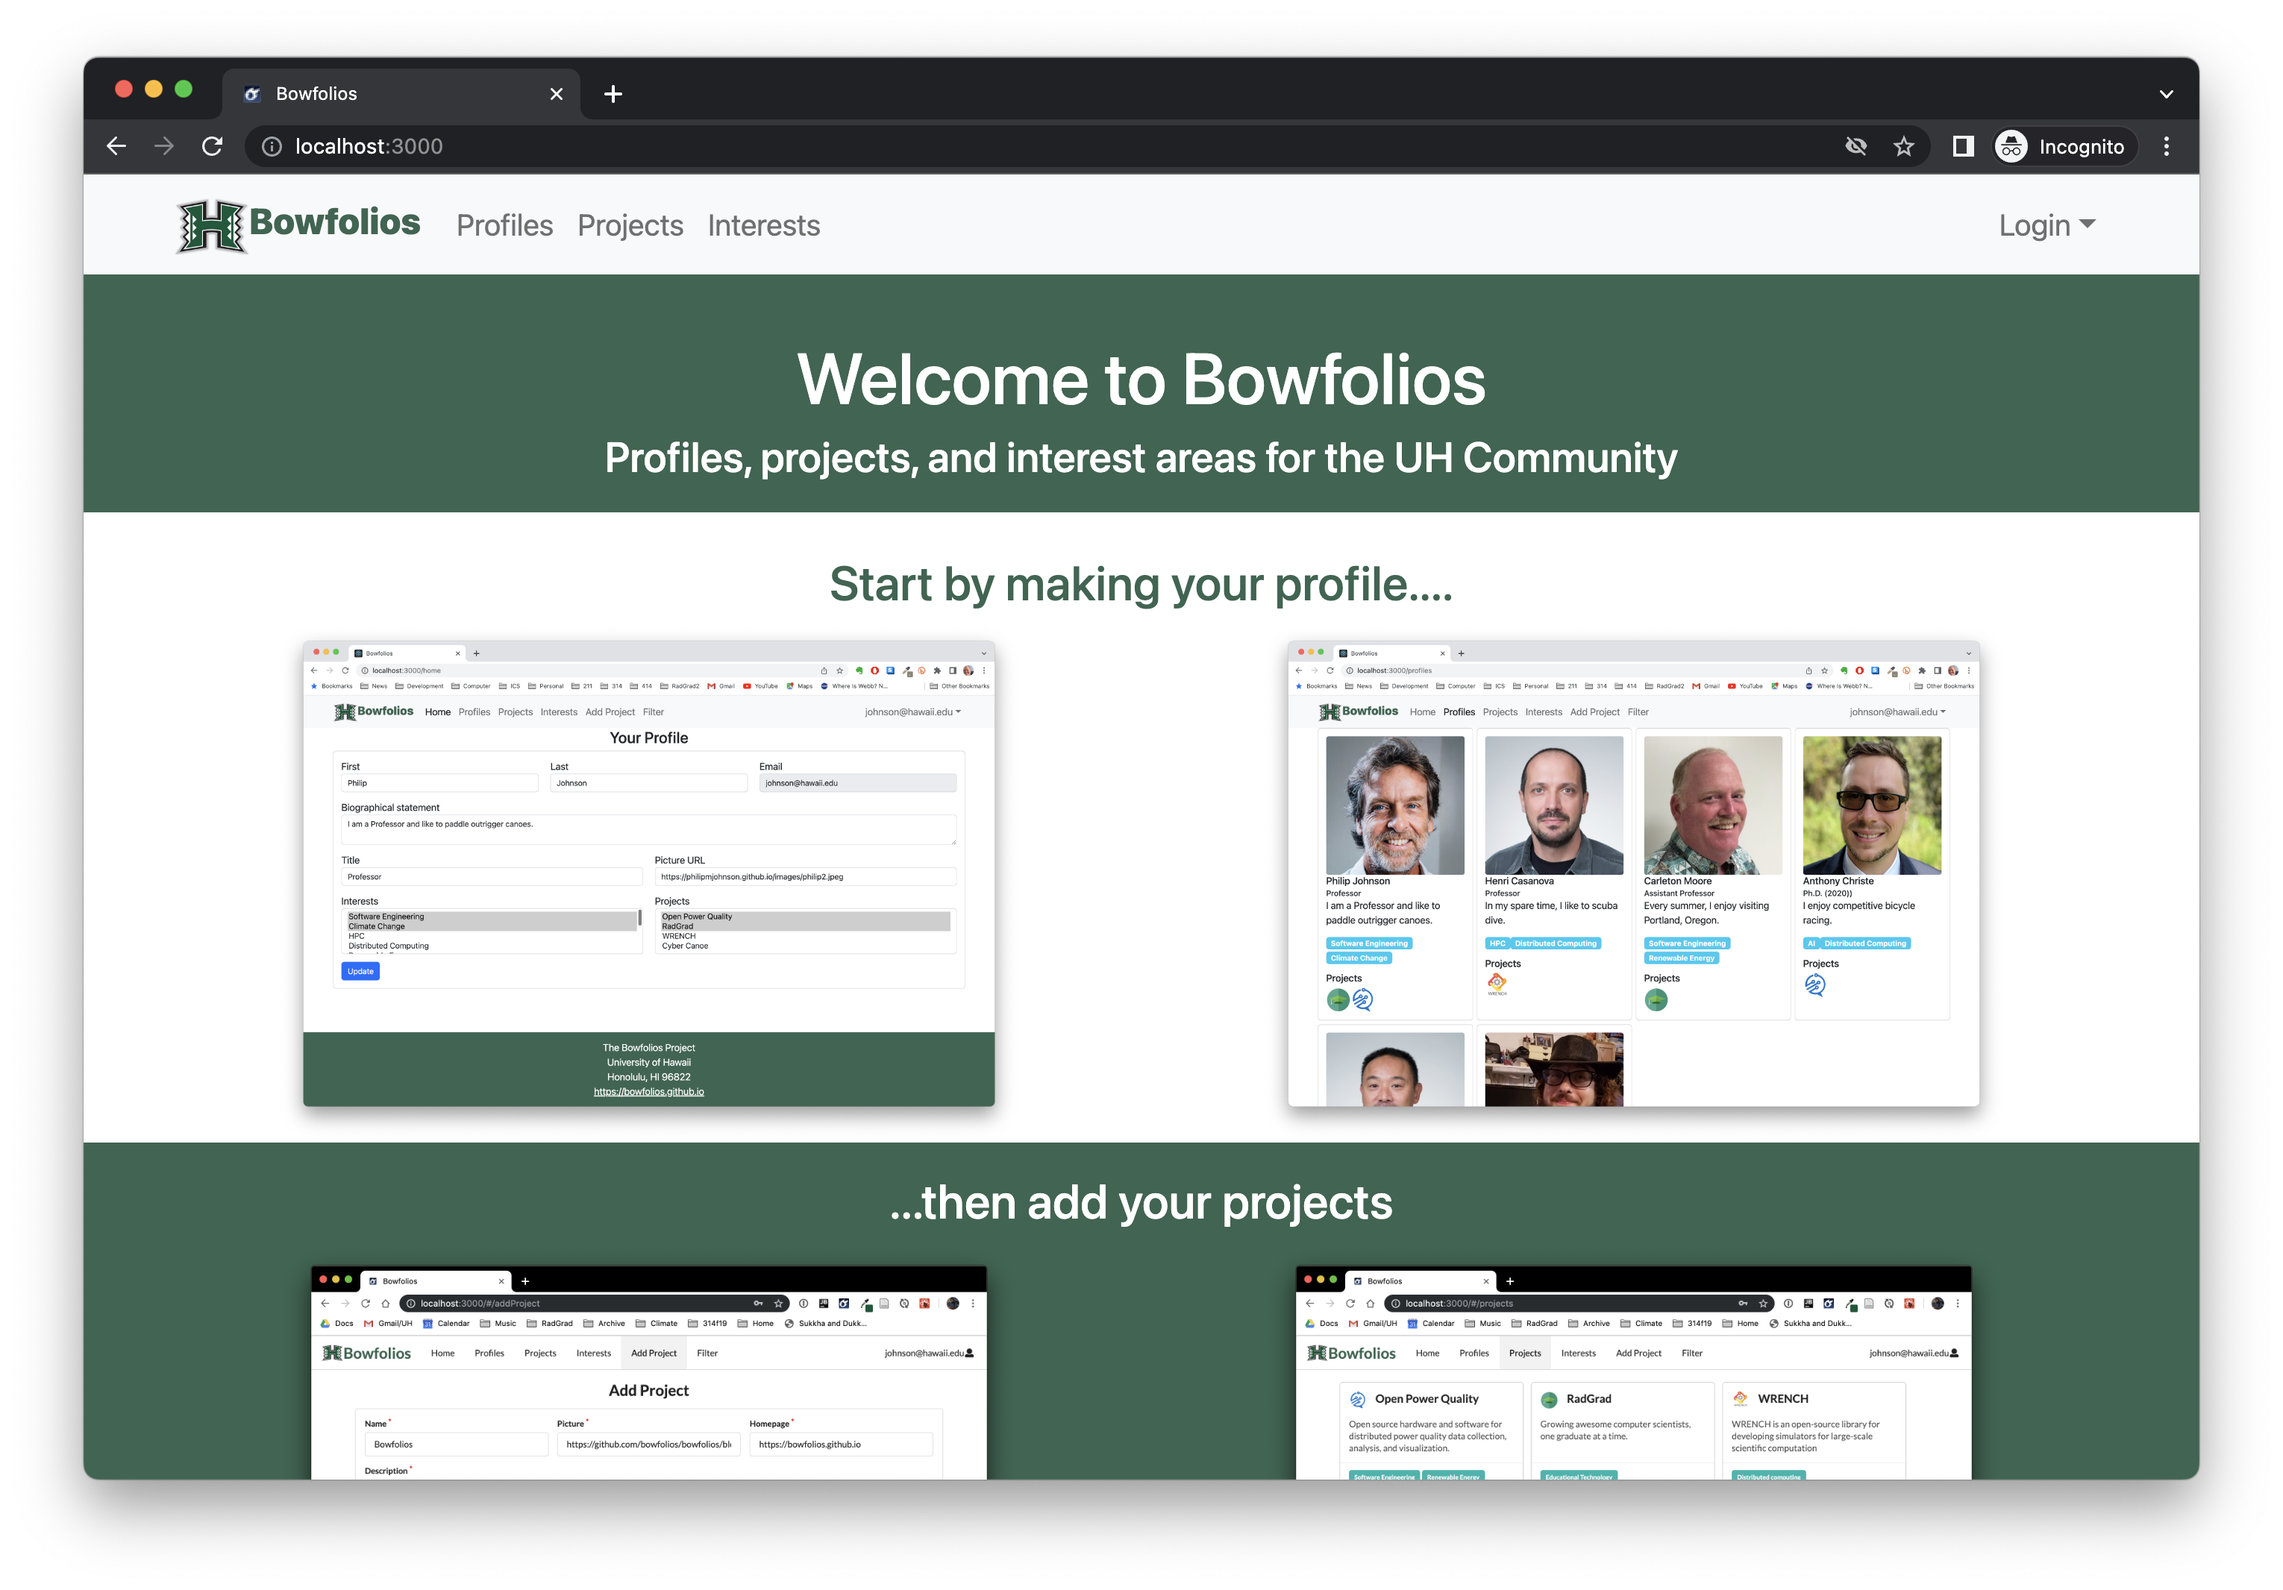
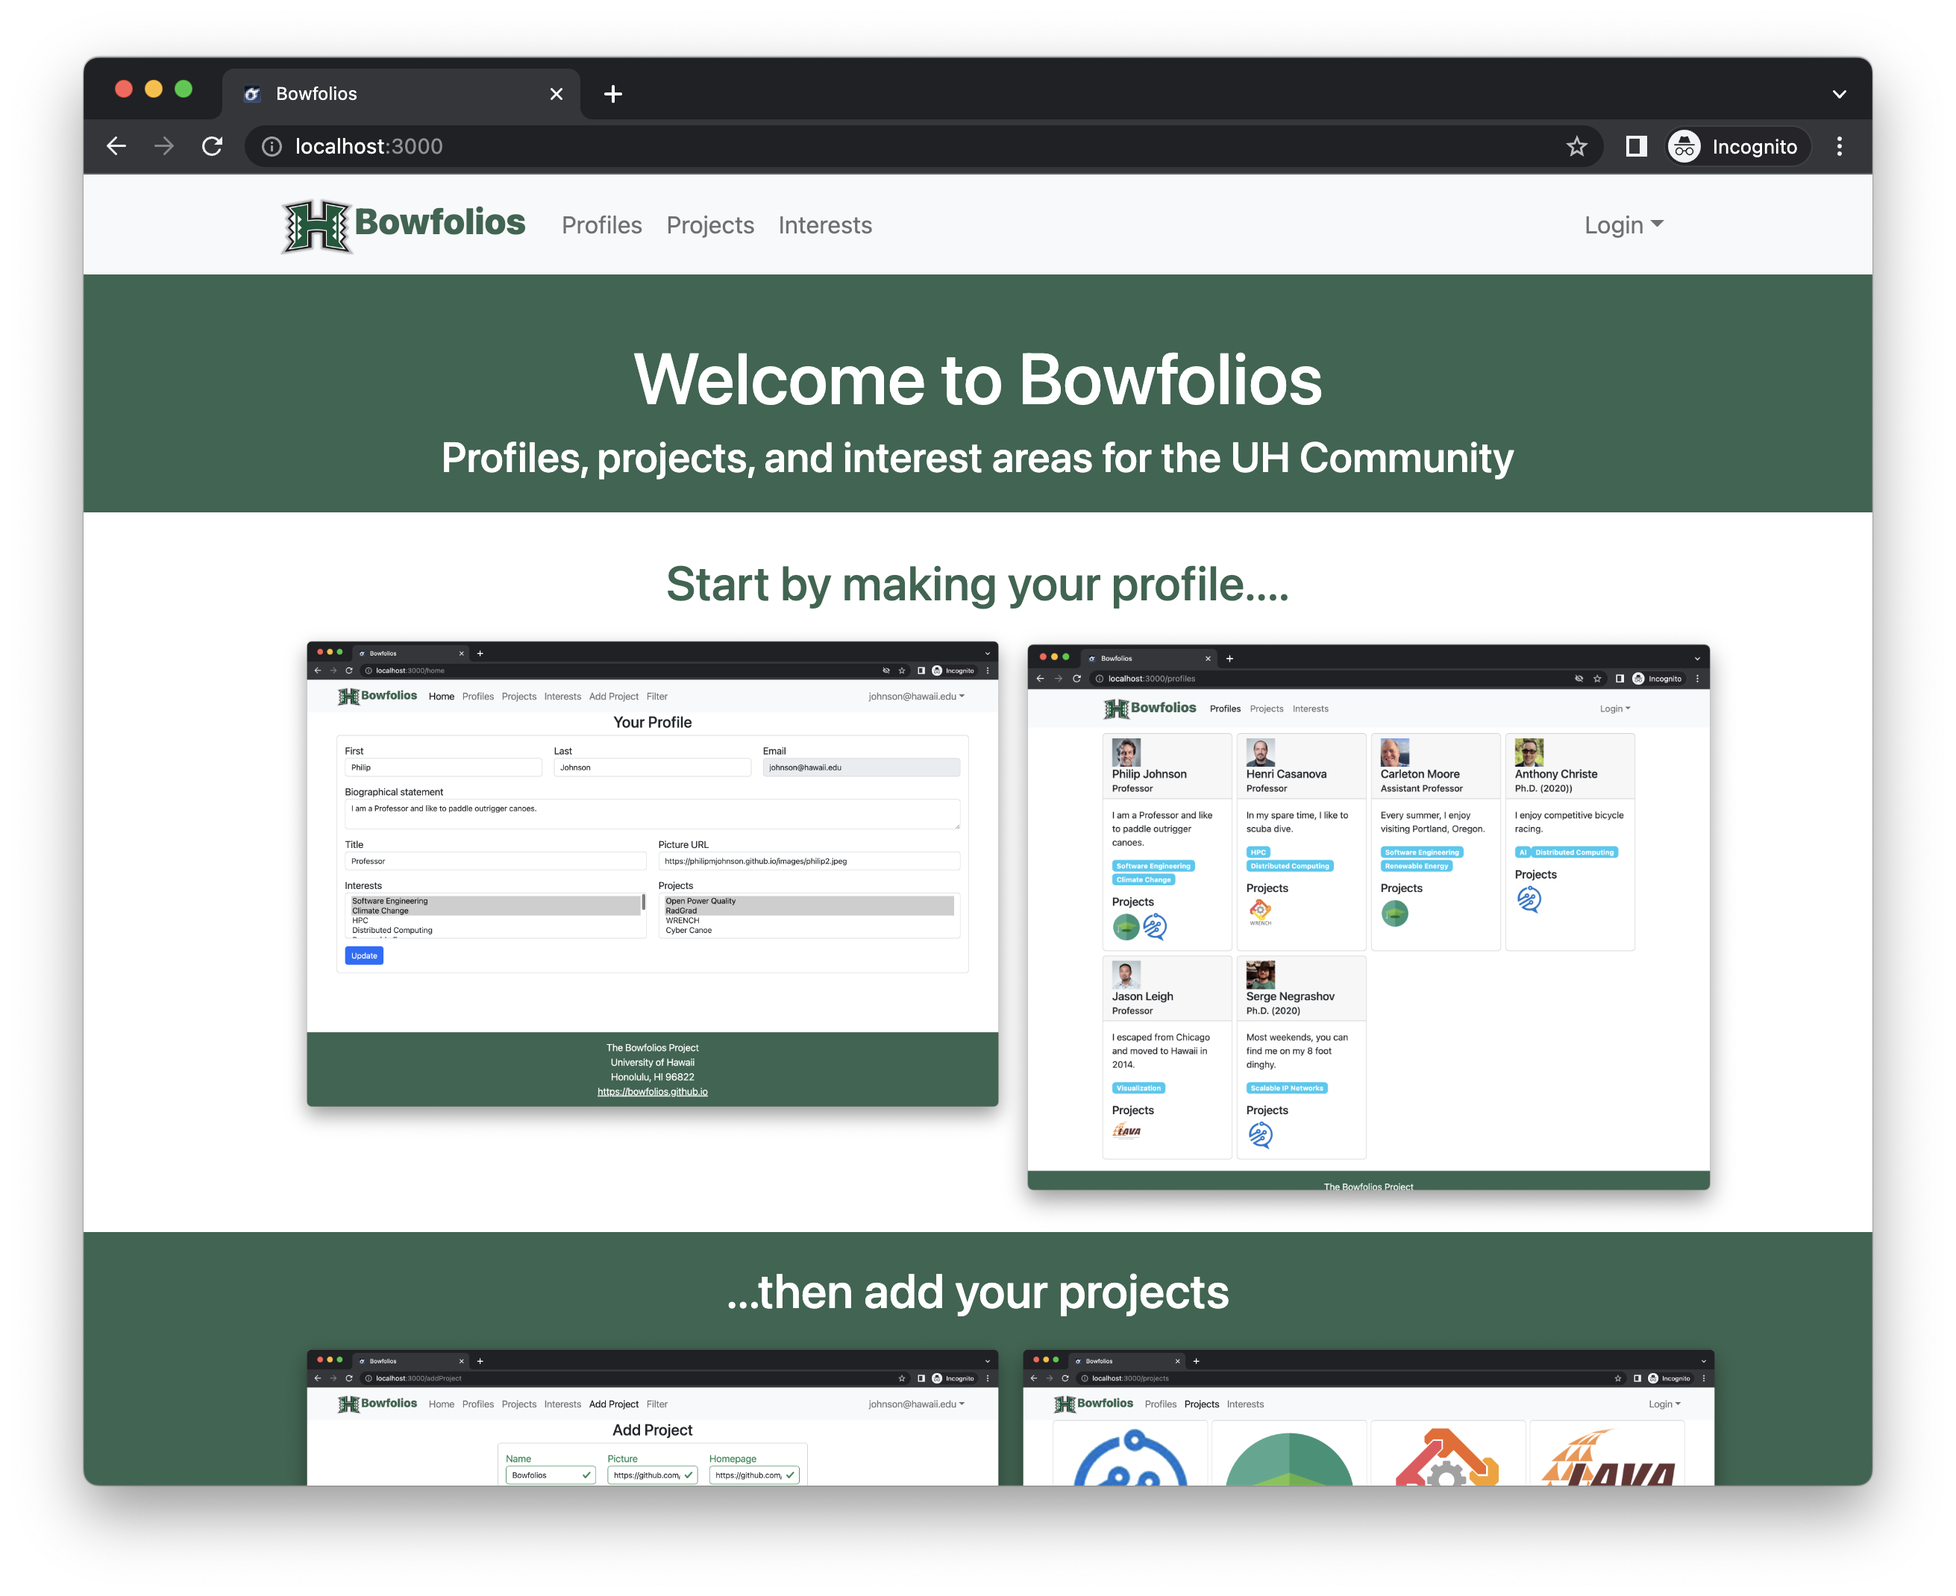
Updated profile card.

diff --git a/app/imports/ui/pages/Profiles.jsx b/app/imports/ui/pages/Profiles.jsx
@@ -26,12 +26,12 @@ function getProfileData(email) {
 const MakeCard = ({ profile }) => (
   <Col>
     <Card className="h-100">
-      <Card.Body>
-        <Card.Img src={profile.picture} width={50} />
+      <Card.Header>
+        <Image src={profile.picture} width={50} />
         <Card.Title>{profile.firstName} {profile.lastName}</Card.Title>
-        <Card.Subtitle>
-          <span className="date">{profile.title}</span>
-        </Card.Subtitle>
+        <Card.Subtitle><span className="date">{profile.title}</span></Card.Subtitle>
+      </Card.Header>
+      <Card.Body>
         <Card.Text>
           {profile.bio}
         </Card.Text>

diff --git a/app/client/style.css b/app/client/style.css
@@ -4,7 +4,6 @@
 body {
   --bs-dark: #376551;
   --bs-dark-rgb: 55, 101, 81;
-  --bs-body-font-size: 20px;
 }
 
 /* Define custom styles */
